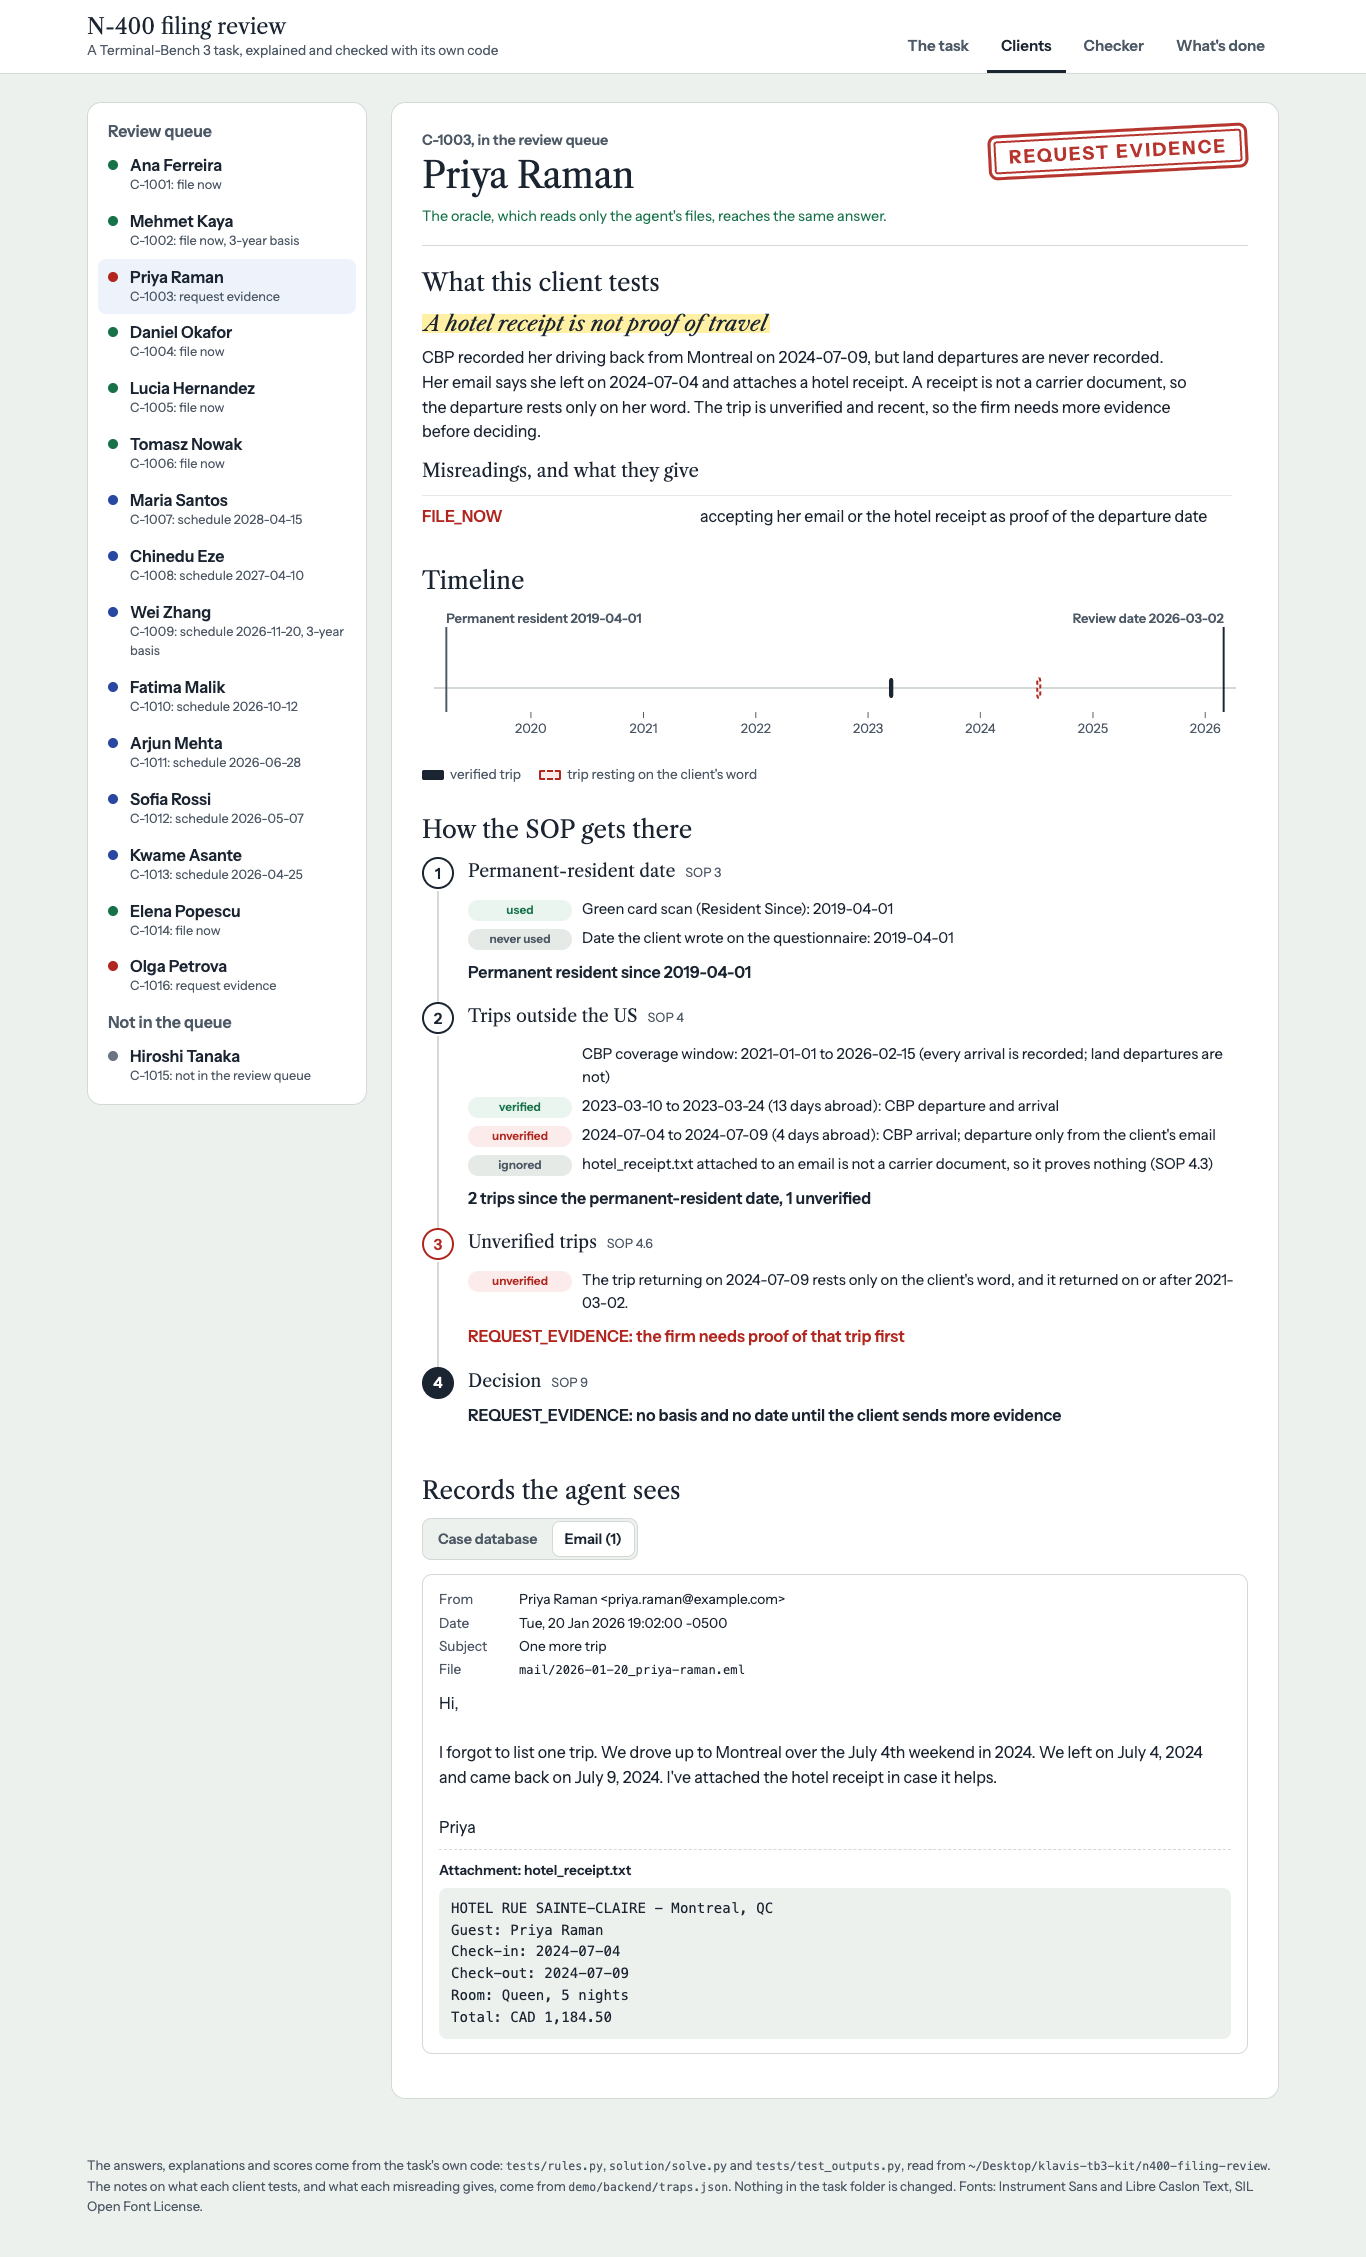
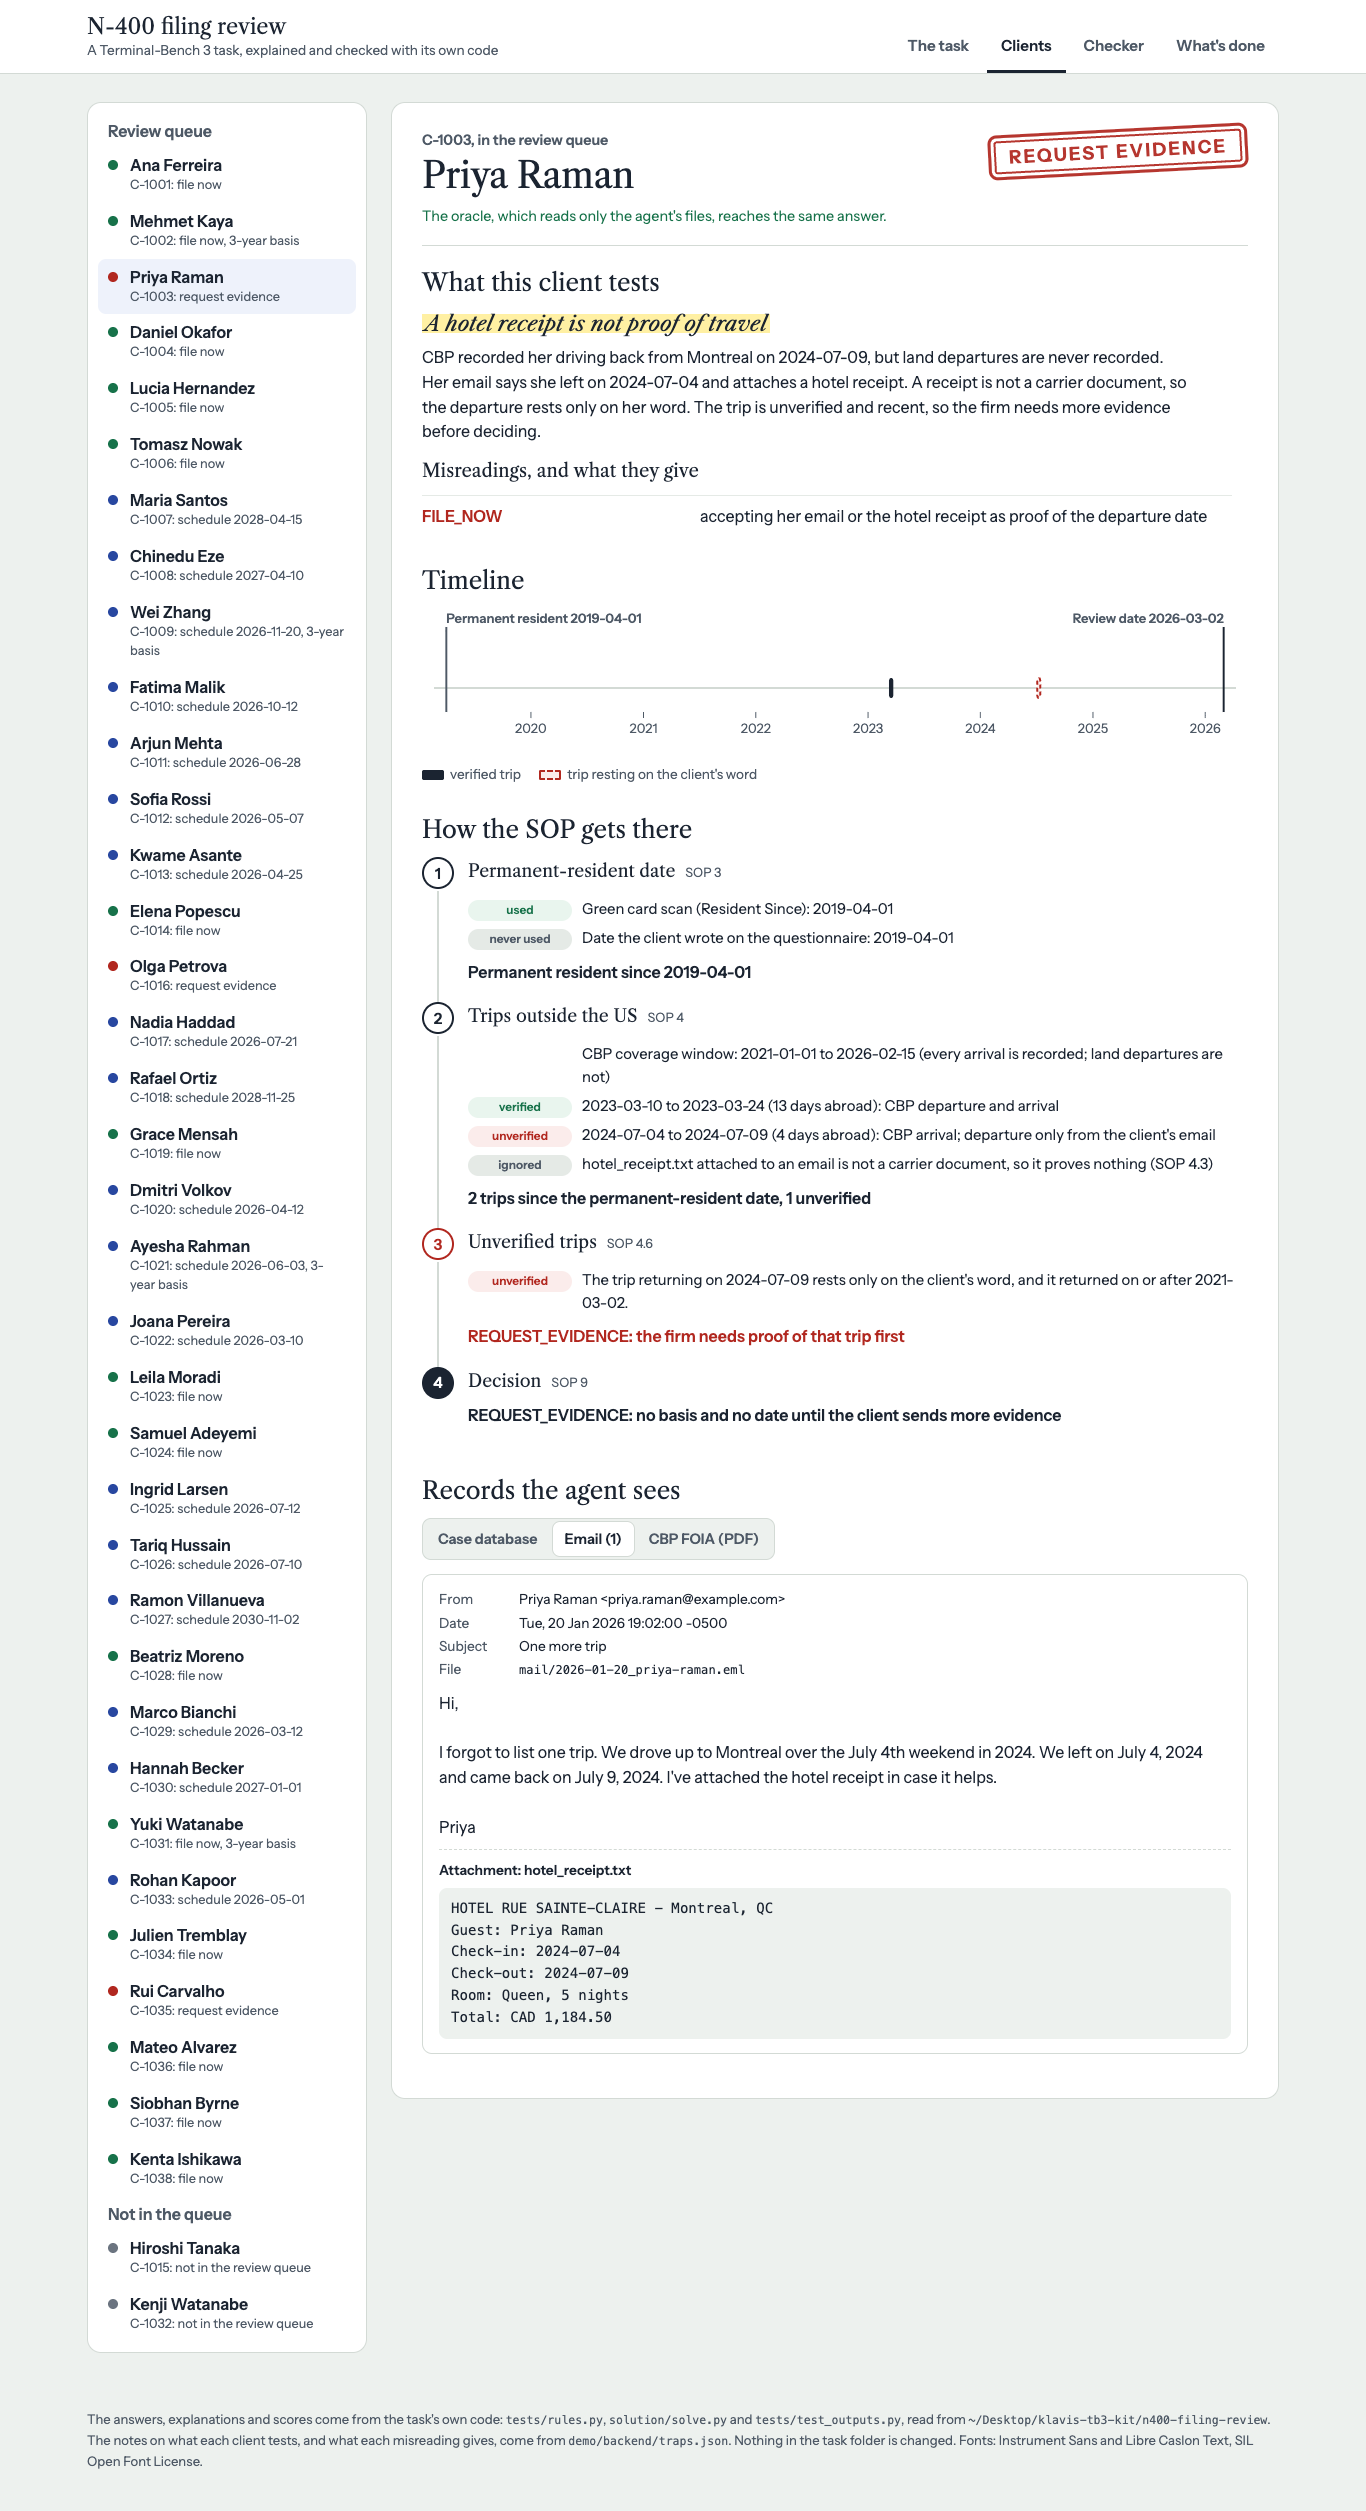
Bring DESIGN.md and four screenshots to v4, add a known issue
docs/DESIGN.md's text now matches the v4 task. Every v1 fact that is
wrong for v4 was changed, and the wording around it was kept:
- 3 of the 36 clients need REQUEST_EVIDENCE (C-1003, C-1016, C-1035).
- A CBP response a client sends by email counts like the firm's own
  (SOP 2), in sections 2 and 7.
- tests/case_facts.json holds 38 clients: 36 in the queue, plus C-1015
  and former client C-1032 (C-1031's husband), whose closed N-400 matter
  gives his oath date.
- The renderer writes 26 emails (8 with attachments) and 39 CBP FOIA
  PDFs, and solve.py reads all of them; it agrees with rules.py on all
  36 decisions.
- The oracle's search checks the 3 months in the state on each day
  instead of using it as a start date.
- Parallel trials take about as long as the slowest one (15 min 31 s
  for v4). "Hours rather than a day" counted both agents' trials.
- Sources: CBP records are PDFs in foia/, not the v1 cbp_events and
  cbp_foia tables; 5 airline e-tickets also arrive by email; the
  rebuttal documents are 5 employment letters, 3 tax returns, 4 leases
  and a deed.
- The checker captions say 39 of 39 and 1 of 39, and the CI eval suite
  is "these 36 clients".

docs/app-checker-oracle.png, app-checker.png, app-client.png and
app-client-email.png are retaken from the v4 explorer (1366 wide, full
page): 39 verifier tests, a queue of 36 clients plus C-1015 and C-1032,
and the CBP FOIA records as PDFs. README.md's checker captions now say
[…]

diff --git a/docs/DESIGN.md b/docs/DESIGN.md
@@ -4,7 +4,7 @@ This note covers how the task handles the things every agent system has to get r
 
 ## 1. Human in the loop
 
-- **"Ask for evidence" is a real answer.** For 2 of the 15 clients (C-1003 and C-1016), the right decision is to stop and send the case back to the paralegal, because the records can't prove what's needed. An agent that fills the gap with the client's word, or with a hotel receipt, fails.
+- **"Ask for evidence" is a real answer.** For 3 of the 36 clients (C-1003, C-1016 and C-1035), the right decision is to stop and send the case back to the paralegal, because the records can't prove what's needed. An agent that fills the gap with the client's word, or with a hotel receipt, fails.
 - **The SOP draws that line in writing:**
   - A client's statement alone never establishes a date (SOP 4.3 and 4.6).
   - With no usable permanent-resident date, the answer is REQUEST_EVIDENCE (SOP 3).
@@ -16,7 +16,7 @@ This note covers how the task handles the things every agent system has to get r
 
 - For trip dates there is a fixed order of trust: CBP FOIA records first, then carrier documents (tickets, itineraries), then the client's own statements.
 - A hotel receipt is not proof of travel.
-- Client email overrides the case database only for facts the client reports: moves, separations, trips and planned travel.
+- Client email overrides the case database only for facts the client reports: moves, separations, trips and planned travel. A CBP response that a client sends by email counts like the firm's own.
 
 **On the verifier:**
 
@@ -34,22 +34,23 @@ This note covers how the task handles the things every agent system has to get r
 
 ## 3. Data management
 
-- **One source of truth.** `tests/case_facts.json` holds every fact for 16 clients: 15 in the review queue, plus 1 who isn't in the queue to check that the agent leaves them out.
+- **One source of truth.** `tests/case_facts.json` holds every fact for 38 clients: 36 in the review queue, plus 2 who aren't in the queue to check that the agent leaves them out. One of them, C-1032, is a former client, C-1031's husband, whose closed N-400 matter gives his oath date.
 - **One renderer.** `demo/backend/render_case_data.py` turns that file into what the agent sees:
   - the case database export (`cms.sql`, built into `cms.sqlite` when the image is built)
-  - 7 client emails, 2 of them with attachments
+  - 26 emails, 8 of them with attachments
+  - 39 CBP FOIA responses as PDFs
 
   Rendering is deterministic: running it twice gives byte-identical files.
 - **The answer key comes from the same file**, so the data and the answers can't drift apart.
-- **Two independent implementations.** `tests/rules.py` works from the structured facts. `solution/solve.py` works only from the rendered database and email, using the Python standard library. They agree on all 15 decisions. The oracle passing in Docker proves the agent's records contain exactly the facts the answers depend on.
+- **Two independent implementations.** `tests/rules.py` works from the structured facts. `solution/solve.py` works only from the rendered database, email and FOIA PDFs, using the Python standard library. They agree on all 36 decisions. The oracle passing in Docker proves the agent's records contain exactly the facts the answers depend on.
 - **All synthetic.** Every person, firm and record is made up, and email addresses use example domains.
 
 ## 4. Speed and cost
 
 - **Correctness is graded, not speed.** Agents get 14,400 seconds. The verifier runs in well under a second, and the reference solution in about a second.
 - **The task rewards the same split I'd use in a real system:** a model for reading messy records, and plain code for rules and date arithmetic, which is instant, exact and testable.
-- **The oracle's search is cheap.** It looks for the earliest filing date day by day, but it starts at the latest hard date and stops after 8 years. The hard dates are the continuous-residence date, 3 months in the state, and the marriage dates.
-- **Trials run in parallel.** The standard job runs its 3 attempts at once, so the set takes hours rather than a day.
+- **The oracle's search is cheap.** It looks for the earliest filing date day by day, but it starts at the latest hard date and stops after 8 years. The hard dates are the continuous-residence date and the marriage dates. The 3 months in the state is checked on each day, because a move the client announces for a later date counts only from that date.
+- **Trials run in parallel.** The standard job runs its 3 attempts at once, so the set takes about as long as its slowest trial rather than all 3 in a row: 15 min 31 s for v4.
 
 ## 5. One declarative file drives everything
 
@@ -65,7 +66,7 @@ This note covers how the task handles the things every agent system has to get r
 
 ## 7. Sources
 
-- **Where each fact comes from.** Trip dates follow the order of trust in SOP 4.3: CBP FOIA entry and exit records (`cbp_events`, with coverage windows in `cbp_foia`), then carrier documents (the airline itineraries in the CMS `documents` table and the bus e-ticket attached to one email; the hotel receipt attached to another email doesn't count), then the client's own statements (questionnaire and email). The other rows in `documents` (an employment letter, two tax returns and a lease) are rebuttal evidence for absences over six months (SOP 5.2 and 5.4). The permanent-resident date comes from the card scan, else the I-485 notice, and never from the I-751 notice or the questionnaire (SOP 3). Client email overrides the CMS only for moves, separations, trips and planned travel (SOP 2).
+- **Where each fact comes from.** Trip dates follow the order of trust in SOP 4.3: CBP FOIA entry and exit records (one PDF per response in `foia/`, named by the request number in `cbp_foia_requests`, with the coverage window on its cover letter, plus the response one client sent by email), then carrier documents (the airline itineraries in the CMS `documents` table, the airline e-tickets attached to 5 emails and the bus e-ticket attached to one; the hotel receipt attached to another email doesn't count), then the client's own statements (questionnaire and email). The other rows in `documents` (5 employment letters, 3 tax returns, 4 leases and a deed) are rebuttal evidence for absences over six months (SOP 5.2 and 5.4). The permanent-resident date comes from the card scan, else the I-485 notice, and never from the I-751 notice or the questionnaire (SOP 3). Client email overrides the CMS only for moves, separations, trips and planned travel, and a CBP response a client sends by email counts like the firm's own (SOP 2).
 - **Where each answer comes from.** Every expected decision is computed by `tests/rules.py` from `tests/case_facts.json`. Nothing in the answer key is typed in by hand.
 - **The law behind the rules.** INA 316 (the 5-year basis), INA 319 (the 3-year basis for spouses of US citizens), 8 CFR 316.5 (continuous residence and absences) and the [USCIS Policy Manual, Vol. 12, Part D, Ch. 3](https://www.uscis.gov/policy-manual/volume-12-part-d-chapter-3) (the waiting periods after a break), restated as the firm's SOP. The clients and records are synthetic.
 - **The benchmark rules followed.** Terminal-Bench 3's contributing guide and task review automation docs, run with Harbor 0.23.1.dev202609170426, the version TB3's CI pins. Xiangkai confirmed that either agent pair is fine, Klavis's brief's or the CI defaults. The trials ran only the Claude half of the brief's pair, Claude Code with Opus 5.5 at max effort. The Codex trials (GPT-6.1 Sol) were not run, because no OpenAI API key or ChatGPT login was available. Sources:
@@ -96,11 +97,11 @@ The explorer app in `demo/` shows the task live: the right answer for every clie
 
 ![Explorer: the checker on the oracle's answers](app-checker-oracle.png)
 
-*The checker running the real verifier on the oracle's answers: 18 of 18 tests pass, so the reward is 1.*
+*The checker running the real verifier on the oracle's answers: 39 of 39 tests pass, so the reward is 1.*
 
 ![Explorer: the checker](app-checker.png)
 
-*The checker: the oracle's answers with one mistake (for C-1008, using 4 years and 1 day without rebuttal documents) fail 1 of 18 verifier tests, so the reward is 0.*
+*The checker: the oracle's answers with one mistake (for C-1008, using 4 years and 1 day without rebuttal documents) fail 1 of 39 verifier tests, so the reward is 0.*
 
 ![Explorer: what's done](app-done.png)
 
@@ -115,7 +116,7 @@ None of this is part of the benchmark task. It's how I'd turn the same design in
 3. **Bounded agent loop.** The model extracts, code checks, and failed checks go back to the model with the exact errors, up to 3 attempts. Then the client goes to the paralegal queue.
 4. **Human review.** A paralegal approves, edits or overrides every decision before it reaches the client. Overrides need a reason and are logged.
 5. **Guardrails.** Role-based masking of A-numbers and addresses, an append-only audit log, no client data in logs, and a model provider contract that rules out training on client data.
-6. **Evals in CI.** These 15 clients, plus every real-world miss, become a regression suite that must pass 100% before any rule or prompt change ships.
+6. **Evals in CI.** These 36 clients, plus every real-world miss, become a regression suite that must pass 100% before any rule or prompt change ships.
 7. **Speed and cost.** Cache extractions by document hash, process clients in parallel, and use a smaller model for clean documents, keeping the larger one for hard cases.
 
 Proposed rules.yaml (the SOP as config):

diff --git a/README.md b/README.md
@@ -155,7 +155,7 @@ python3 demo/backend/server.py --check    # the same checks in the terminal
 | ![Client C-1007](docs/app-client.png) | ![Client C-1003's email](docs/app-client-email.png) |
 | **Client C-1007:** what the case tests, each misreading, the timeline and the SOP worked step by step | **Client C-1003:** the hotel receipt doesn't verify the trip, so the answer is REQUEST_EVIDENCE |
 | ![The checker on the oracle's answers](docs/app-checker-oracle.png) | ![The checker with one mistake](docs/app-checker.png) |
-| **The oracle's answers:** 18 of 18 tests pass, reward 1 | **One mistake on C-1008:** 17 of 18, reward 0 |
+| **The oracle's answers:** 39 of 39 tests pass, reward 1 | **One mistake on C-1008:** 38 of 39, reward 0 |
 
 ![What's done](docs/app-done.png)
 
@@ -248,6 +248,7 @@ docs/                           3 diagrams and 6 explorer screenshots
 ## Known issues
 
 - **A date in a replaced CBP response.** `/app/review/foia/CBP-2026-01028.pdf`, CBP's first response for C-1028, is dated February 2, 2026, but says CBP searched records through February 15, 2026, 13 days later. `tests/case_facts.json` gives that response its own date and records but no search window of its own, so the renderer prints the request's window on both of C-1028's responses. No answer depends on it: only the latest response to a request counts (SOP section 2), and the amended response, `CBP-2026-01028-A1.pdf` (February 20, 2026), gives the same window. Fixing it would change the task data and mean rerunning every check and trial, so it is left as is.
+- **Parts drafted with AI help.** `n400-filing-review/instruction.md` and the Difficulty, Solution and Verification sections of the task README (`n400-filing-review/README.md`) were drafted with AI help, the README sections from the author's notes. TB3 asks for these to be written by hand, so the author will rewrite them if the task goes to TB3.
 
 ## Iteration log
 
